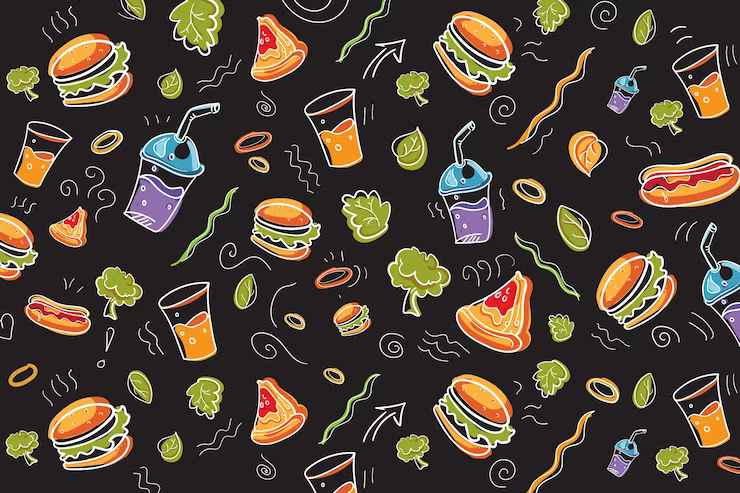
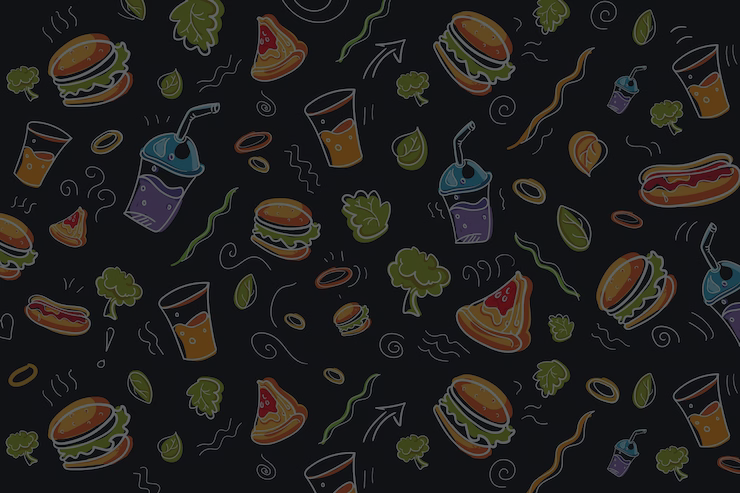
Uniformity and BG darkening

diff --git a/src/Update_Main_page/nc.css b/src/Update_Main_page/nc.css
@@ -22,6 +22,7 @@
 #navbar ul li{
     list-style:none; 
     font-size:1rem;
+    z-index:2;
     }
 /* navbar */
 #navbar{
@@ -31,25 +32,29 @@
     content:"";
     position:absolute;
     background: url(./asset/nav-bg.png);
-    z-index:-1;
-    opacity:0.8;
+    z-index:-1;  
     height:100%;
     width:100%;
+    filter: blur(4px);  /* to BLUR */
+  -webkit-filter: blur(2px);
+  transform: scale(1.1); /*to remove the white border while blurring*/
 }
 /* for tabs */
 #navbar ul li a{
     display: inline;
     text-decoration: none;
-    padding: 6px 11.5px;
-    background-color: rgb(227, 248, 203);
-    border-radius: 10px;
-    color:black;
+    padding: 6px 14px;
+    /* background-color: rgb(227, 248, 203); */
+    background-color: #f8683c;
+    border-radius: 20px;
+    color:rgb(255, 255, 255);
     margin: 0px 45px;
    
 }
 #navbar ul li a:hover{
-    color:black;
-    background-color:rgb(255, 255, 170) ;
+    font-weight: bold;
+    color:rgb(255, 255, 255);
+    background-color:#df582f ;
 }
 /* home tab */
 #home{
@@ -92,10 +97,15 @@
     content:"";
     position:absolute;
     background: url(./asset/home-bg.png) no-repeat center center/cover ;
-    z-index:-1;
-    opacity:0.7;
+    z-index:-2;
+    /* opacity:0.7; */
+    margin-top:60px;
     height:950px;;
     width:100%;
+    filter: blur(4px);
+  -webkit-filter: blur(2px);
+  transform: scale(1.1); /*to remove the white border while blurring*/
+
 }
 
 /* floating code ends */

diff --git a/src/Update_Main_page/Error/index.js b/src/Update_Main_page/Error/index.js
@@ -4,7 +4,8 @@ import './err.css'
 import errmsg from './er.png'
 const index = () => {
   return (
-    <div className='bg'>
+    <div className='bg'> 
+    ERROR
     {/* <img src={errmsg} />
     <p>Sorry! Some error occurred</p> */}
 
